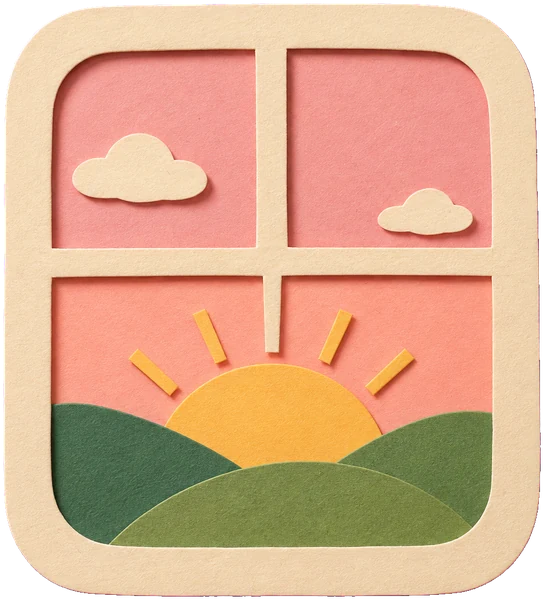
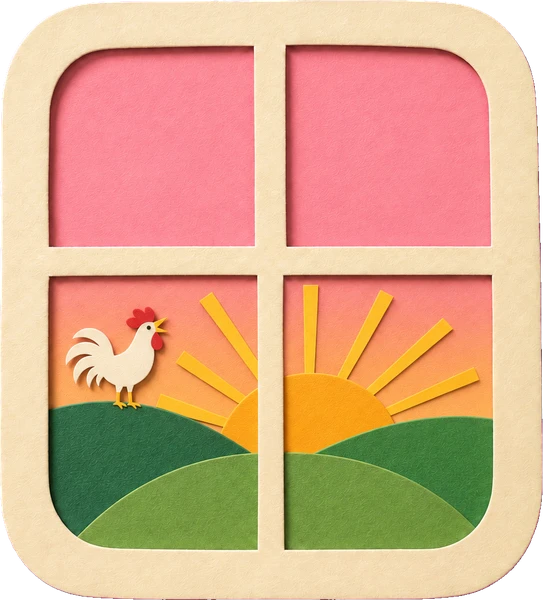
미녀와 야수: 실내(시골집 1.15배·궁전 식당 1.3배·벨의 방 1.35배)에서 사람과 식탁을 키워 문·책장·촛대에 견줘 작아 보이던 것 바로잡음, 세로 식당은 벨·야수 자리를 벌려 음식에 얼굴이 안 가리게. 아침·낮·밤 창문 카드 새로 그림(십자 창살이 끝까지, 아침=분홍 하늘에 반쯤 뜬 해와 우는 닭, 낮=파란 하늘 맨 위 해), 세로 화면 카드 키움(캐시 버전 올림) — 사용자 지적 2026-11-01
Claude-Session: https://claude.ai/code/session_015D7fGjm4nVvpfW8sbSdtTy

diff --git a/tales/beauty_beast/beauty_beast.js b/tales/beauty_beast/beauty_beast.js
@@ -14,7 +14,7 @@
     beast_lie_eyes: 1.6393, father_ride: 0.9717, father_eat: 0.4917, father_sleep: 0.78, father_shock: 0.47, father_rose: 0.4117,
     father_bed: 1.3167, father_well: 0.4833, sisa_plead: 0.46, sisa_gasp: 0.4717, sisa_joy: 0.5467, sisb_plead: 0.4767,
     sisb_gasp: 0.4783, sisb_joy: 0.5717, prop_rose: 0.6033, prop_rose_vase: 0.5733, prop_bush5: 1.1083, prop_bush2: 1.2167,
-    prop_table_small: 1.055, prop_table_long: 1.415, card_morning: 0.9067, card_noon: 0.905, card_night: 0.905, prop_mirror: 0.8267,
+    prop_table_small: 1.055, prop_table_long: 1.415, card_morning: 0.905, card_noon: 0.905, card_night: 0.905, prop_mirror: 0.8267,
     prop_ring: 0.8133, prop_dream: 1.1283, prop_spring: 1.4833, prop_glow: 0.9883, prop_hat: 1.4783,
     /* 화려하게 다시 그리기(VISUAL_PLAN.md, 2026-10-22): 궁전 장면 층 소품 (tools/app/gen/post_v2.py 로 오림) */
     layer_snow_fir_front: 0.575, layer_snow_bush: 1.8987, layer_chandelier: 0.845, layer_curtain: 0.42, layer_feast: 2.1951,
@@ -29,6 +29,9 @@
   const NAT = { belle_point: 'right', belle_run: 'right', belle_kneel: 'right', belle_sleep: 'left', father_bed: 'left',
     beast_lie: 'left', beast_lie_eyes: 'left', beast_ring: 'left', father_ride: 'right', horse_stand: 'right' };
   const FL = 528;                    // 바닥(발끝 y)
+  /* 실내 배경은 문·책장·촛대가 커서 사람이 작아 보인다(2026-11-01 사용자): 장면마다 사람·식탁만 키운다(발끝 기준). 소품은 그대로 */
+  const SCN = { cottage: 1.15, room_v2: 1.35, dining_v2: 1.3 };
+  let SC = 1;
   /* 사람 세계(시골집)는 그대로, 야수의 궁전 장면만 다층 v2 (VISUAL_PLAN) */
   const BGS = ['cottage', 'cottage_front', 'snow_forest_lb', 'dining_v2', 'garden_v2', 'garden_bloom_v2', 'room_v2'];
   /* 2026-10-28 사용자 결정(§7-1 빛 예외): 눈보라 숲은 성문에서 내려오던 불투명 크림 빛 띠 두 줄을 뺀 _glow 그림(같은 구도). 성문·창 둘레의 반투명 빛이 언덕을 따라 흐려진다 */
@@ -175,7 +178,7 @@
   const prop = (T, f, h) => mk(T, { a: [f, h] });
   function put(T, a, x, y, { look, to, s = 1 } = {}) {
     T.world.appendChild(a.pos); a.pos.getAnimations().forEach(n => n.cancel()); a.pos.style.display = ''; a.pos.style.opacity = '';
-    a.setScale(s); if (look) a.look(look, to); else if (to) a.turn(to);
+    a.setScale(s * (a.big ? SC : 1)); if (look) a.look(look, to); else if (to) a.turn(to);
     a.place(x, y); a.body.style.transform = ''; a.body.style.filter = '';
     return a;
   }
@@ -299,7 +302,7 @@
     const amb = (name, v = .28, d = 4) => { try { const rd = T.reading(); AudioFX.ambient(name, { vol: rd ? Math.min(v, .18) : v, dur: rd ? Math.min(d, 4) : d }); } catch (e) { /* 소리 없이 */ } };
     const cue = (name, v) => { try { return AudioFX.sfx(name, T.reading() ? v * .8 : v); } catch (e) { return false; } };
     const SCENE_AMB = { snow_forest_lb: 'winter_wind_1' };
-    const scene = key => { try { AudioFX.stopAmbient(.5); } catch (e) { /* */ } T.clear(); bgImage(T, key); camSnap(500, 280, 1); if (SCENE_AMB[key]) amb(SCENE_AMB[key]); };
+    const scene = key => { try { AudioFX.stopAmbient(.5); } catch (e) { /* */ } SC = SCN[key] || 1; T.clear(); bgImage(T, key); camSnap(500, 280, 1); if (SCENE_AMB[key]) amb(SCENE_AMB[key]); };
     try { AudioFX.preloadSfx(['intro_magic', 'finale_fairy', 'sparkle', 'thud', 'womp', 'paper_up', 'paper_down', 'step_grass', 'blow_long', 'chomp', 'swish', 'pop', 'xylo_down', 'splash', 'tada', 'winter_wind_1', 'birds_chirp_1', 'horse_hooves_1', 'door_heavy_1', 'ding_glock', 'question', 'pull_pop', 'surprise_sting', 'whistle_down', 'water_drip', 'party_horn']); } catch (e) { /* */ }
     /* 클래식 한 토막(2026-10-31 사용자 지시): sounds/sfx/classical_<곡>.mp3 18초, CREDITS.md. 내레이션 동안 엔진이 자동으로 낮춘다(ambient 덕킹). 장면이 바뀌면 이 동화의 배경 소리 정리가 같이 끈다 */
     const classical = n => { try { const o = { vol: T.reading() ? .2 : .27, loop: false, fadeIn: .6, dur: 18 }; if (!AudioFX.ambient('classical_' + n, o)) setTimeout(() => { try { AudioFX.ambient('classical_' + n, o); } catch (e) { /* 무시 */ } }, 900); } catch (e) { /* 무시 */ } };
@@ -330,6 +333,7 @@
     const tableS = prop(T, 'prop_table_small', 110), tableL = prop(T, 'prop_table_long', 170);
     const mirror = prop(T, 'prop_mirror', 200), ring = prop(T, 'prop_ring', 22), dream = prop(T, 'prop_dream', 150);
     const spring = prop(T, 'prop_spring', 90), shine = prop(T, 'prop_glow', 220), hat = prop(T, 'prop_hat', 34);
+    [belle, beast, prince, father, sisa, sisb, tableL].forEach(a => { a.big = 1; });
     const ALL = [belle, beast, prince, father, sisa, sisb, horse, bush5, bush2, rose, ...vases, tableS, tableL, mirror, ring, dream, spring, shine, hat];
     ALL.forEach(hide);
     /* ---- 층 소품 (VISUAL_PLAN §4): 누름을 받지 않는다. 같은 소품은 어느 장면이든 같은 높이 ---- */
@@ -338,12 +342,13 @@
       curtain: [D('curtain', 520), D('curtain', 520)], feast: D('feast', 70), topiary: D('topiary_snow', 200), rose: D('rosebush_front', 150) };
     Object.values(L).flat().forEach(hide);
     /* 3장 눈보라 숲은 빛 상자(snow_forest_lb, VISUAL_PLAN 재기획 2 A): 앞 전나무·덤불은 낮 색이라 밤빛 실루엣처럼 낮춘다(이 소품은 3장에만 쓴다) */
+    L.feast.big = 1;
     [L.fir[0], L.fir[1], L.sbush].forEach(a => { a.pos.style.filter = 'brightness(.42) saturate(.55)'; });   // put() 이 body 필터를 비우므로 pos 에
     const front = (...as) => as.forEach(a => { if (a.pos.style.display !== 'none') T.world.appendChild(a.pos); });
     /* 연회장(3B·8장): 샹들리에(중간·위) → 배우·식탁 → 잔칫상(식탁 위) → 휘장 둘(앞) */
     const diningBack = () => { put(T, L.chand, X(500, 520), 180); };
     const diningFront = () => {
-      put(T, L.feast, tableL.x, FL + 4 - 170 * .72);
+      put(T, L.feast, tableL.x, FL + 4 - 170 * .72 * SC);
       put(T, L.curtain[0], 25, 580); put(T, L.curtain[1], 975, 580, { to: 'right' });
       front(L.curtain[0], L.curtain[1]);
     };
@@ -631,7 +636,7 @@
     cue('door_heavy_1', .5);
     await say('멀리 불빛! 커다란 궁전에 아무도 없고, 따뜻한 저녁상만 차려져 있었어요.');
     await h10;
-    T.clear(); bgImage(T, 'dining_v2'); camSnap(500, 280, 1);
+    SC = SCN.dining_v2; T.clear(); bgImage(T, 'dining_v2'); camSnap(500, 280, 1);
     diningBack();
     put(T, father, X(560, 520), FL, { look: 'eat' });
     put(T, tableL, X(560, 520), FL + 4);
@@ -787,8 +792,8 @@
     await T.sceneCard(tr('저녁마다'), () => {
       scene('dining_v2');
       diningBack();
-      put(T, belle, X(440, 450), FL, { look: 'sit' });
-      put(T, beast, X(700, 600), FL, { look: 'sit' });
+      put(T, belle, X(440, 395), FL, { look: 'sit' });
+      put(T, beast, X(700, 660), FL, { look: 'sit' });
       put(T, tableL, X(570, 525), FL + 4);
       diningFront();
       if (P) camSnap(520, 280, 1);
@@ -802,7 +807,7 @@
     beast.wiggle(3, 600);
     await say('그럼 내일 저녁에 또 올게.');
     await say('벨은 날마다 친절하게 대답했고, 둘은 친구가 되었어요.');
-    const cardS = X(170, 96), cardY = X(380, 360), cardX = X([250, 500, 750], [396, 500, 604]);
+    const cardS = X(170, 118), cardY = X(380, 360), cardX = X([250, 500, 750], [372, 500, 628]);
     const kinds = ['morning', 'noon', 'night'].sort(() => Math.random() - .5);
     const cards = kinds.map((k, i) => {
       const g = T.el('g', { filter: 'url(#pp)' }, T.world), f = 'card_' + k;

diff --git a/tales/beauty_beast/index.html b/tales/beauty_beast/index.html
@@ -17,6 +17,6 @@
 <script src="../../entitlements.js?v=20261031sh1"></script>
 <script src="../../audio.js?v=20261030ensl"></script>
 <script src="../../engine/tale.js?v=20261101rw1"></script>
-<script src="beauty_beast.js?v=20261031brace"></script>
+<script src="beauty_beast.js?v=20261101sz1"></script>
 </body>
 </html>
